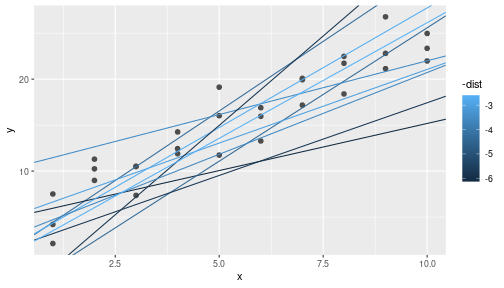
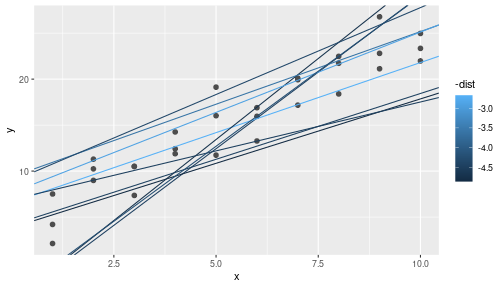
ultima act

diff --git a/models/23-pres.html b/models/23-pres.html
@@ -177,16 +177,16 @@ modelos
 ## # A tibble: 250 x 3
 ##        a1     a2  dist
 ##     &lt;dbl&gt;  &lt;dbl&gt; &lt;dbl&gt;
-##  1  13.5  -1.23  13.0 
-##  2  26.2   0.662 15.0 
-##  3 -11.3  -0.118 28.3 
-##  4 -19.7  -4.64  63.7 
-##  5  21.4  -0.145  8.36
-##  6   9.88 -4.41  35.2 
-##  7  29.8   1.72  23.8 
-##  8  37.8   1.29  29.6 
-##  9   5.62 -4.08  36.8 
-## 10  36.7  -3.71  16.7 
+##  1  24.0  -4.47  24.8 
+##  2   4.91 -3.34  32.9 
+##  3  -7.60  0.496 21.0 
+##  4  34.9  -4.18  18.4 
+##  5  -2.78  0.876 14.0 
+##  6 -15.7  -4.77  60.7 
+##  7  -5.27 -0.971 27.6 
+##  8  29.9   4.68  40.9 
+##  9  -4.23  3.33   4.48
+## 10   7.50 -3.30  30.4 
 ## # … with 240 more rows
 ```
 
@@ -278,7 +278,7 @@ ggplot(sim1, aes(x, y)) +
 
 Existe otro enfoque que podemos usar para este modelo, debido a que es un caso especial de una familia más amplia: los modelos lineales. Un modelo lineal es de la forma y = a_1 + a_2 * x_1 + a_3 * x_2 + ... + a_n * x_(n+1). Este modelo simple es equivalente a un modelo lineal generalizado en el que n tiene valor 2 y x_1 es x. 
 
-#### R cuenta con una herramienta diseñada especialmente para ajustar modelos lineales llamada lm(). lm() tiene un modo especial de especificar la familia del modelo: las fórmulas. Las fórmulas son similares a y ~ x, que lm() traducirá a una función de la forma y = a_1 + a_2 * x. Podemos ajustar el modelo y mirar la salida:
+#### R cuenta con una herramienta diseñada especialmente para ajustar modelos lineales llamada lm(). lm() tiene un modo especial de especificar la familia del modelo: las fórmulas. Las fórmulas son similares a y ~ x, que lm() traducirá a una función de la forma y = a_1 + a_2 * x. Podemos ajustar el modelo y mirar la salida.
 
 ---
 # Usando la función `lm()` 
@@ -369,7 +369,7 @@ grid
 ```
 
 ---
-A continuación, graficamos las predicciones. Te preguntarás acerca de todo este trabajo adicional en comparación a usar geom_abline(). Pero la ventaja de este enfoque es que funciona con cualquier modelo en R, desde los más simples a los más complejos. La única limitante son tus habilidades de visualización. Para más ideas respecto de como visualizar modelos complejos, puedes consultar http://vita.had.co.nz/papers/model-vis.html.
+A continuación, graficamos las predicciones. Te preguntarás acerca de todo este trabajo adicional en comparación a usar geom_abline(). Pero la ventaja de este enfoque es que funciona con cualquier modelo en R, desde los más simples a los más complejos. Para más ideas respecto de como visualizar modelos complejos, puedes consultar http://vita.had.co.nz/papers/model-vis.html.
 
 
 ```r
@@ -435,7 +435,7 @@ ggplot(sim1, aes(resid)) +
 ```
 
 ![](23-pres_files/figure-html/unnamed-chunk-19-1.png)&lt;!-- --&gt;
-
+  
 ---
 
 Esto ayuda a calibrar la __calidad del modelo:__ ¿qué tan lejos se encuentran las predicciones de los valores observados? Nota que el promedio del residuo es siempre cero.
@@ -791,16 +791,13 @@ background-size: cover
 class: center, middle
 
 
-# Set de datos
+# Set de datos (modelr)
 
 ### sim1: modelización lineal
 
 ### sim2: modelización de variables categóricas
 
 ### sim3: modelización de interacciones
-
----
-
 
 ---
     </textarea>
